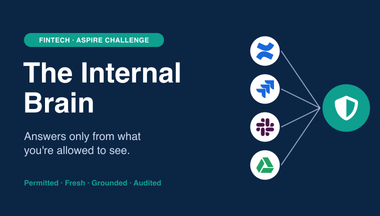
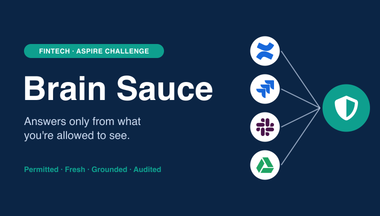
docs: cover image renamed to Brain Sauce
The cover PNGs still read "The Internal Brain" after the rename (#17).
Regenerated with the new name on one line, same navy and teal as the deck,
and added build-cover.js (react-icons + sharp) so it can be rebuilt.

diff --git a/docs/submission/build-cover.js b/docs/submission/build-cover.js
@@ -1,0 +1,91 @@
+/* Submission cover image (16:9). Usage: node cover.js <outDir> */
+const React = require("react");
+const ReactDOMServer = require("react-dom/server");
+const sharp = require("sharp");
+const si = require("react-icons/si");
+const fa = require("react-icons/fa6");
+
+const out = process.argv[2];
+const W = 1520,
+  H = 864; // 4x of 380x216, downscaled for crisp text
+const NAVY = "#0B2545",
+  TEAL = "#0E9F8E",
+  ICE = "#C9D8EE",
+  WHITE = "#FFFFFF";
+const FONT = "Helvetica, Arial, sans-serif";
+
+async function iconPng(Comp, color, size) {
+  const svg = ReactDOMServer.renderToStaticMarkup(
+    React.createElement(Comp, { color, size: String(size) }),
+  );
+  return sharp(Buffer.from(svg)).png().toBuffer();
+}
+
+(async () => {
+  const sources = [
+    [si.SiConfluence, "#1868DB"],
+    [si.SiJira, "#1868DB"],
+    [si.SiSlack, "#4A154B"],
+    [si.SiGoogledrive, "#1FA463"],
+  ];
+  const cx = 1060,
+    d = 118,
+    gap = 34;
+  const top = (H - (4 * d + 3 * gap)) / 2;
+  const shieldX = 1290,
+    shieldD = 190;
+  const rowY = (i) => top + i * (d + gap) + d / 2;
+
+  const lines = sources
+    .map(
+      (_, i) =>
+        `<line x1="${cx + d / 2 + 6}" y1="${rowY(i)}" x2="${shieldX - 10}" y2="${H / 2}" stroke="${ICE}" stroke-width="4" stroke-opacity="0.7"/>`,
+    )
+    .join("");
+  const circles = sources
+    .map(
+      (_, i) =>
+        `<circle cx="${cx}" cy="${rowY(i)}" r="${d / 2}" fill="${WHITE}"/>`,
+    )
+    .join("");
+
+  const svg = `<svg xmlns="http://www.w3.org/2000/svg" width="${W}" height="${H}">
+    <rect width="${W}" height="${H}" fill="${NAVY}"/>
+    ${lines}${circles}
+    <circle cx="${shieldX + shieldD / 2}" cy="${H / 2}" r="${shieldD / 2}" fill="${TEAL}"/>
+    <rect x="96" y="176" rx="28" ry="28" width="560" height="56" fill="${TEAL}"/>
+    <text x="376" y="214" font-family="${FONT}" font-size="27" font-weight="700" fill="${WHITE}" text-anchor="middle" letter-spacing="1">FINTECH · ASPIRE CHALLENGE</text>
+    <text x="90" y="400" font-family="${FONT}" font-size="132" font-weight="700" fill="${WHITE}">Brain Sauce</text>
+    <text x="96" y="500" font-family="${FONT}" font-size="44" fill="${ICE}">Answers only from what</text>
+    <text x="96" y="556" font-family="${FONT}" font-size="44" fill="${ICE}">you're allowed to see.</text>
+    <text x="96" y="688" font-family="${FONT}" font-size="30" font-weight="700" fill="${TEAL}">Permitted · Fresh · Grounded · Audited</text>
+  </svg>`;
+
+  const iconSize = Math.round(d * 0.6);
+  const composites = [];
+  for (let i = 0; i < sources.length; i++) {
+    const [Comp, color] = sources[i];
+    composites.push({
+      input: await iconPng(Comp, color, iconSize),
+      left: Math.round(cx - iconSize / 2),
+      top: Math.round(rowY(i) - iconSize / 2),
+    });
+  }
+  const sIcon = Math.round(shieldD * 0.52);
+  composites.push({
+    input: await iconPng(fa.FaShieldHalved, WHITE, sIcon),
+    left: Math.round(shieldX + (shieldD - sIcon) / 2),
+    top: Math.round(H / 2 - sIcon / 2),
+  });
+
+  const full = await sharp(Buffer.from(svg))
+    .composite(composites)
+    .png()
+    .toBuffer();
+  await sharp(full).resize(760, 432).png().toFile(`${out}/cover-760x432.png`);
+  await sharp(full).resize(380, 216).png().toFile(`${out}/cover-380x216.png`);
+  console.log("wrote covers to", out);
+})().catch((e) => {
+  console.error(e);
+  process.exit(1);
+});
